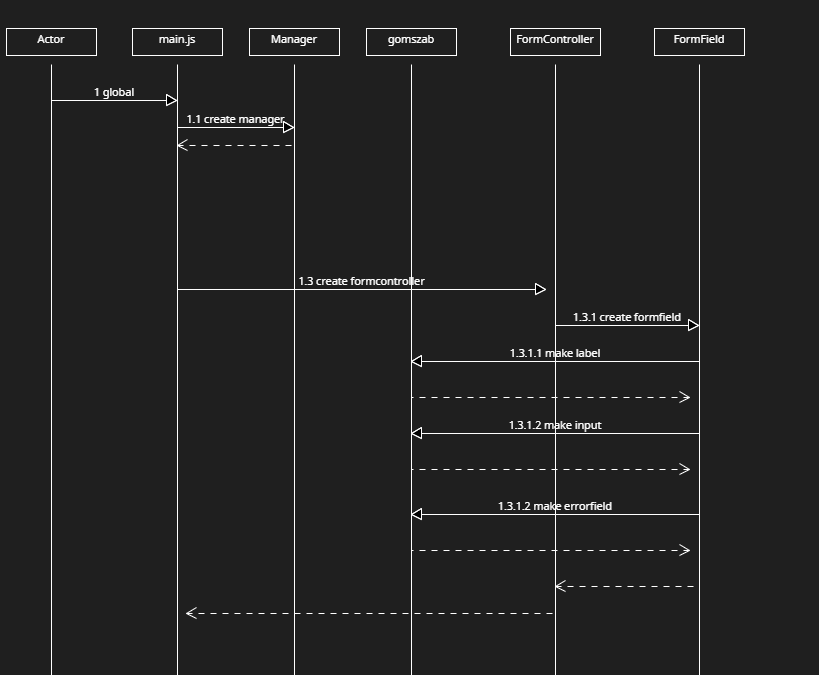
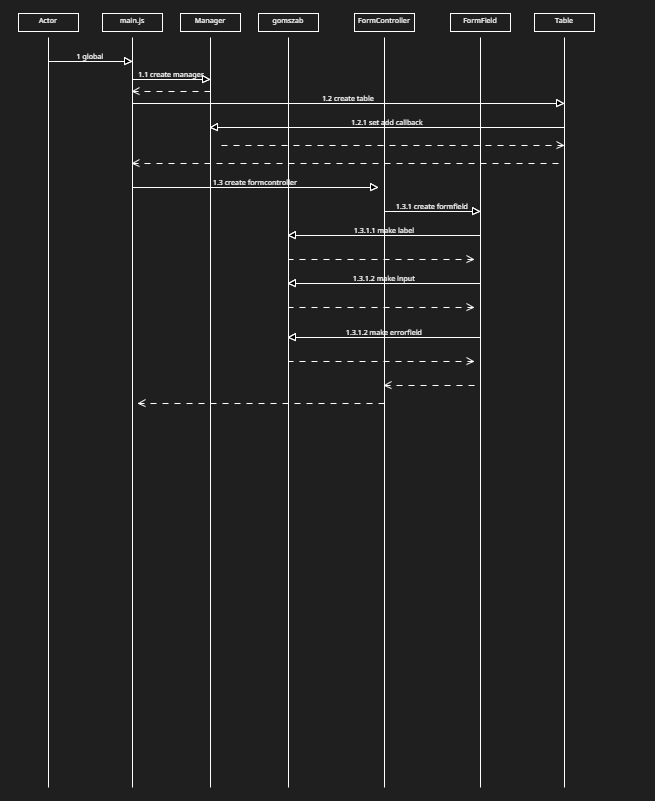
add table to admin

diff --git a/app/shared/manager.js b/app/shared/manager.js
@@ -6,16 +6,19 @@ class Manager{
     #nextCardCallback
     #appanedCardToSolution
     #finishCallback
+    #addCallback;
 
 
     constructor(array = []){
         this.#array = array;
         this.#solution = {}
         this.#currentCardNumber = 0;
+        this.#addCallback = () => {}
     }
 
     add(card){
         this.#array.push(card);
+        this.#addCallback(card);
     }
 
     setNextCardCallback(callback){
@@ -28,6 +31,10 @@ class Manager{
 
     setFinishCallback(callback){
         this.#finishCallback = callback;
+    }
+
+    setAddCallback(callback){
+        this.#addCallback = callback;
     }
 
 

diff --git a/app/admin/table.js b/app/admin/table.js
@@ -1,0 +1,19 @@
+class Table{
+    #manager;
+
+    constructor(manager){
+        this.#manager = manager;
+        const tbody = Gomszab.makeTableWithHeader(['Állítás', 'Helye-e']);
+        this.#manager.setAddCallback(this.#addCallback(tbody))
+    }
+
+    #addCallback(tbodyElement){
+       return (card) => {
+            const tr = document.createElement('tr');
+            tbodyElement.appendChild(tr);
+            Gomszab.makeCellToRow(tr, card.text);
+            const isRight = card.correct ? 'igen': 'nem';
+            Gomszab.makeCellToRow(tr, isRight);
+        }
+    }
+}

diff --git a/app/admin/index.html b/app/admin/index.html
@@ -4,11 +4,18 @@
      <meta charset="UTF-8">
      <meta name="viewport" content="width=device-width, initial-scale=1.0">
      <title>Admin page</title>
+     <style>
+        table, tr, td, th {
+            border: 1px solid black;
+            border-collapse: collapse;
+        }
+    </style>
  </head>
  <body>
      <script src="../shared/gomszab.js"></script>
      <script src="../shared/card.js"></script>
      <script src="../shared/manager.js"></script>
+     <script src="table.js"></script>
      <script src="form.js"></script>
      <script src="main.js"></script>
  </body>

diff --git a/app/admin/main.js b/app/admin/main.js
@@ -4,4 +4,5 @@ const formFieldConfiguration = [
 ]
 
 const manager = new Manager();
+const table = new Table(manager);
 const formController = new FormController(manager, formFieldConfiguration);
